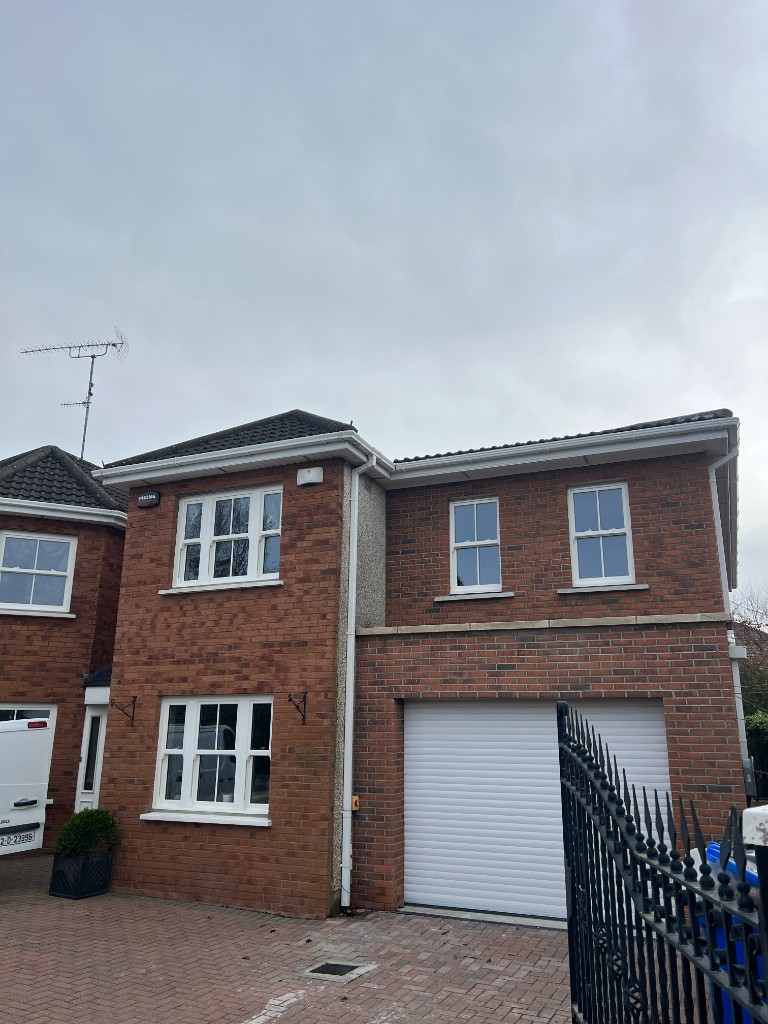
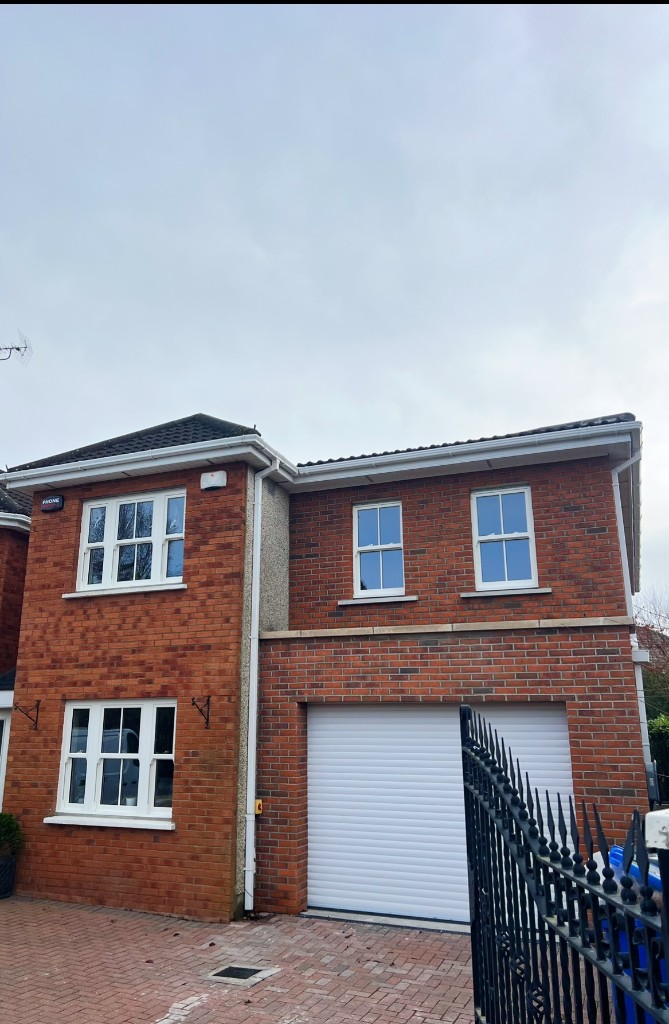
update referral PDF layout and renovations image.
Improve referral programme PDF typography/spacing and replace the building & renovations section image with the provided house photo.

Made-with: Cursor

diff --git a/src/lib/referral-scheme-pdf.ts b/src/lib/referral-scheme-pdf.ts
@@ -12,7 +12,7 @@ export type ReferralSchemePdfData = {
 
 const A4_WIDTH_MM = 210;
 const A4_HEIGHT_MM = 297;
-const MARGIN = 18;
+const MARGIN = 16;
 
 // Brand colours (RGB for jsPDF) — aligned with estimate-pdf + site teal accent
 const NAVY = { r: 15, g: 23, b: 42 };
@@ -22,8 +22,7 @@ const TEAL = { r: 13, g: 148, b: 136 };
 const GRAY = { r: 100, g: 116, b: 139 };
 const LIGHT_BG = { r: 248, g: 247, b: 245 };
 
-const LINE_H = 5.2;
-const FOOTER_RESERVE_MM = 32;
+const LINE_H = 4.6;
 
 function setNavy(doc: jsPDF) {
   doc.setTextColor(NAVY.r, NAVY.g, NAVY.b);
@@ -52,10 +51,10 @@ function drawFooter(doc: jsPDF, pageW: number, margin: number) {
 
 function drawPageHeaderBand(doc: jsPDF, pageW: number, margin: number, logoDataUri: string | null | undefined) {
   doc.setFillColor(NAVY.r, NAVY.g, NAVY.b);
-  doc.rect(0, 0, pageW, 32, "F");
+  doc.rect(0, 0, pageW, 34, "F");
   if (logoDataUri) {
     try {
-      doc.addImage(logoDataUri, "PNG", margin, 8, 44, 16);
+      doc.addImage(logoDataUri, "PNG", margin, 8, 46, 18);
     } catch {
       doc.setFontSize(18).setFont("helvetica", "bold").setTextColor(255, 255, 255);
       doc.text(company.name, margin, 18);
@@ -64,51 +63,34 @@ function drawPageHeaderBand(doc: jsPDF, pageW: number, margin: number, logoDataU
     doc.setFontSize(18).setFont("helvetica", "bold").setTextColor(255, 255, 255);
     doc.text(company.name, margin, 18);
   }
-  doc.setFontSize(8).setFont("helvetica", "normal").setTextColor(220, 220, 220);
-  doc.text(company.tagline, margin, 26);
-}
-
-function drawContinuationHeader(doc: jsPDF, pageW: number, margin: number) {
-  doc.setDrawColor(TEAL.r, TEAL.g, TEAL.b);
-  doc.setLineWidth(0.8);
-  doc.line(margin, 12, pageW - margin, 12);
-  doc.setFontSize(9).setFont("helvetica", "bold");
-  setNavy(doc);
-  doc.text("Referral partner programme (continued)", margin, 20);
-}
-
-function ensureSpace(doc: jsPDF, y: number, neededMm: number, pageW: number, margin: number): number {
-  const footerTop = A4_HEIGHT_MM - FOOTER_RESERVE_MM;
-  if (y + neededMm > footerTop) {
-    doc.addPage();
-    drawContinuationHeader(doc, pageW, margin);
-    return 28;
-  }
-  return y;
+  // Move supporting header text to the right of the logo and make it clearer.
+  doc.setFontSize(10).setFont("helvetica", "bold").setTextColor(232, 232, 232);
+  doc.text("Referral Programme Overview", margin + 52, 17);
+  doc.setFontSize(8.5).setFont("helvetica", "normal").setTextColor(220, 220, 220);
+  doc.text("Professional Partner Terms", margin + 52, 23);
 }
 
 function sectionHeading(doc: jsPDF, margin: number, y: number, title: string): number {
-  doc.setFontSize(11.5).setFont("helvetica", "bold");
+  doc.setFontSize(11).setFont("helvetica", "bold");
   setNavy(doc);
   doc.text(title, margin, y);
   doc.setDrawColor(TEAL.r, TEAL.g, TEAL.b);
-  doc.setLineWidth(0.45);
-  const w = Math.min(doc.getTextWidth(title) + 2, 120);
-  doc.line(margin, y + 1.5, margin + w, y + 1.5);
-  return y + 9;
+  doc.setLineWidth(0.4);
+  const w = Math.min(doc.getTextWidth(title) + 1.5, 120);
+  doc.line(margin, y + 1.2, margin + w, y + 1.2);
+  return y + 7;
 }
 
 function bodyParagraph(doc: jsPDF, pageW: number, margin: number, y: number, text: string): number {
   doc.setFontSize(10).setFont("helvetica", "normal");
   setGray(doc);
   const lines = doc.splitTextToSize(text, pageW - 2 * margin);
-  let yy = y;
+  let yy = y + 0.4;
   for (const line of lines) {
-    yy = ensureSpace(doc, yy, LINE_H + 2, pageW, margin);
     doc.text(line, margin, yy);
     yy += LINE_H;
   }
-  return yy + 4;
+  return yy + 2.6;
 }
 
 export function generateReferralSchemePdf(data: ReferralSchemePdfData): Uint8Array {
@@ -119,24 +101,15 @@ export function generateReferralSchemePdf(data: ReferralSchemePdfData): Uint8Arr
 
   drawPageHeaderBand(doc, pageW, margin, logoDataUri);
 
-  let y = 42;
-  doc.setFontSize(17).setFont("helvetica", "bold");
+  let y = 44;
+  doc.setFontSize(18).setFont("helvetica", "bold");
   setNavy(doc);
   doc.text("Referral partner programme", margin, y);
-  y += 6;
+  y += 6.5;
   doc.setFontSize(11).setFont("helvetica", "normal");
   setGray(doc);
   doc.text("How we operate", margin, y);
-  y += 10;
-
-  const dateStr = new Date().toLocaleDateString("en-IE", {
-    day: "numeric",
-    month: "long",
-    year: "numeric",
-  });
-  doc.setFontSize(9);
-  doc.text(`Overview · ${dateStr}`, margin, y);
-  y += 10;
+  y += 7;
 
   y = sectionHeading(doc, margin, y, "Partnership");
   y = bodyParagraph(
@@ -144,18 +117,16 @@ export function generateReferralSchemePdf(data: ReferralSchemePdfData): Uint8Arr
     pageW,
     margin,
     y,
-    "This overview applies when you — whether a private customer, business, or professional partner — accept a partnership with us under our referral scheme. The sections below set out how we track referrals, pay rewards, and handle larger or commercial opportunities.",
+    "This overview applies when you as a private customer, business, or professional partner accept a partnership with us under our referral scheme. The sections below set out how we track referrals, pay rewards, and manage larger opportunities",
   );
 
-  y = ensureSpace(doc, y, 40, pageW, margin);
   y = sectionHeading(doc, margin, y, "Domestic reward");
   const domesticCopy =
-    "For each domestic house referred to us that we complete: once the installation work is finished and we have received payment from the end customer, the referrer receives €200 per completed domestic house. Example: five completed domestic jobs would result in €1,000 in referral fees.";
+    "For each domestic house referred to us that we complete, once the installation work is finished and payment is received from the end customer, the referrer receives €200 per completed domestic house";
   const domesticLines = doc.splitTextToSize(domesticCopy, pageW - 2 * margin - 8);
-  const boxPadTop = 4;
-  const summaryLineH = 6;
-  const boxInnerH = boxPadTop + domesticLines.length * LINE_H + summaryLineH + 3;
-  y = ensureSpace(doc, y, boxInnerH + 6, pageW, margin);
+  const boxPadTop = 3;
+  const summaryLineH = 6.2;
+  const boxInnerH = boxPadTop + domesticLines.length * LINE_H + summaryLineH + 4;
   doc.setFillColor(LIGHT_BG.r, LIGHT_BG.g, LIGHT_BG.b);
   doc.roundedRect(margin, y - 3, pageW - 2 * margin, boxInnerH + 6, 2, 2, "F");
   doc.setDrawColor(TEAL.r, TEAL.g, TEAL.b);
@@ -163,15 +134,15 @@ export function generateReferralSchemePdf(data: ReferralSchemePdfData): Uint8Arr
   doc.roundedRect(margin, y - 3, pageW - 2 * margin, boxInnerH + 6, 2, 2, "S");
   doc.setFontSize(10).setFont("helvetica", "normal");
   setGray(doc);
-  let yy = y + boxPadTop + 1;
+  let yy = y + boxPadTop + 0.8;
   for (const line of domesticLines) {
     doc.text(line, margin + 4, yy);
     yy += LINE_H;
   }
-  doc.setFont("helvetica", "bold");
+  doc.setFontSize(12).setFont("helvetica", "bold");
   setGold(doc);
-  doc.text("€200 per completed domestic house  ·  5 jobs → €1,000", margin + 4, yy + 2);
-  y = yy + summaryLineH + 8;
+  doc.text("EUR 200 per completed domestic house  |  5 jobs = EUR 1,000", margin + 4, yy + 2.8);
+  y = yy + summaryLineH + 6;
 
   y = sectionHeading(doc, margin, y, "Onboarding & tracking");
   y = bodyParagraph(
@@ -179,7 +150,7 @@ export function generateReferralSchemePdf(data: ReferralSchemePdfData): Uint8Arr
     pageW,
     margin,
     y,
-    "When a customer first contacts us, we ask who they were referred by and whether their enquiry is a referral. If it is a referral, we attach the referrer’s name and contact details to the customer’s project file in our system for the full installation journey. That way we can reach you and pay you promptly once the project is completed and paid.",
+    "When a customer first contacts us, we ask who referred them and whether the enquiry is a referral. If it is, we attach the referrer name and contact details to the customer project file through the installation journey so we can contact and pay the referrer promptly once the project is completed and paid",
   );
 
   y = sectionHeading(doc, margin, y, "Multiple homes");
@@ -188,34 +159,36 @@ export function generateReferralSchemePdf(data: ReferralSchemePdfData): Uint8Arr
     pageW,
     margin,
     y,
-    "Where you refer multiple homes, we can offer larger referral amounts than the standard domestic rate. Figures are agreed on a case-by-case basis depending on scope and value.",
+    "Where you refer multiple homes, we can offer larger referral amounts than the standard domestic rate. Figures are agreed case by case depending on scope and value",
   );
 
-  y = sectionHeading(doc, margin, y, "Commercial & large-scale work");
-  y = bodyParagraph(
-    doc,
-    pageW,
-    margin,
-    y,
-    "For businesses, commercial units, or large solar contracts — including substantial corporate partnerships in Ireland — we prefer to meet in person to discuss the opportunity. Referral fees in these cases can be very lucrative and are agreed individually to reflect the scale of the work.",
-  );
-
-  y = ensureSpace(doc, y, 20, pageW, margin);
-  doc.setFontSize(8).setFont("helvetica", "normal");
+  y = sectionHeading(doc, margin, y, "Commercial and large scale work");
+  doc.setFontSize(10).setFont("helvetica", "normal");
   setGray(doc);
-  const disclaimer =
-    "Referral fees are subject to agreed partnership terms. The €200 rate applies to standard completed domestic house installations as described above. Programme details may be confirmed with you when you partner with us.";
-  const discLines = doc.splitTextToSize(disclaimer, pageW - 2 * margin);
-  for (const line of discLines) {
-    y = ensureSpace(doc, y, LINE_H + 2, pageW, margin);
+  const commercialText =
+    "For businesses, commercial units, or large solar contracts including substantial corporate partnerships in Ireland, we prefer to meet in person to discuss the opportunity";
+  const commercialLines = doc.splitTextToSize(commercialText, pageW - 2 * margin);
+  for (const line of commercialLines) {
     doc.text(line, margin, y);
     y += LINE_H;
   }
+  doc.setFontSize(10.3).setFont("helvetica", "bold");
+  setNavy(doc);
+  doc.text(
+    "Referral fees in these cases can be very lucrative and are agreed individually to reflect the scale of the work",
+    margin,
+    y + 0.6
+  );
+  y += 5;
 
-  const footerY = A4_HEIGHT_MM - 26;
-  if (y > footerY - FOOTER_RESERVE_MM) {
-    doc.addPage();
-    drawContinuationHeader(doc, pageW, margin);
+  doc.setFontSize(7.8).setFont("helvetica", "normal");
+  setGray(doc);
+  const disclaimer =
+    "Referral fees are subject to agreed partnership terms and the EUR 200 rate applies to standard completed domestic house installations as described above";
+  const discLines = doc.splitTextToSize(disclaimer, pageW - 2 * margin);
+  for (const line of discLines) {
+    doc.text(line, margin, y);
+    y += 4.1;
   }
 
   drawFooter(doc, pageW, margin);
